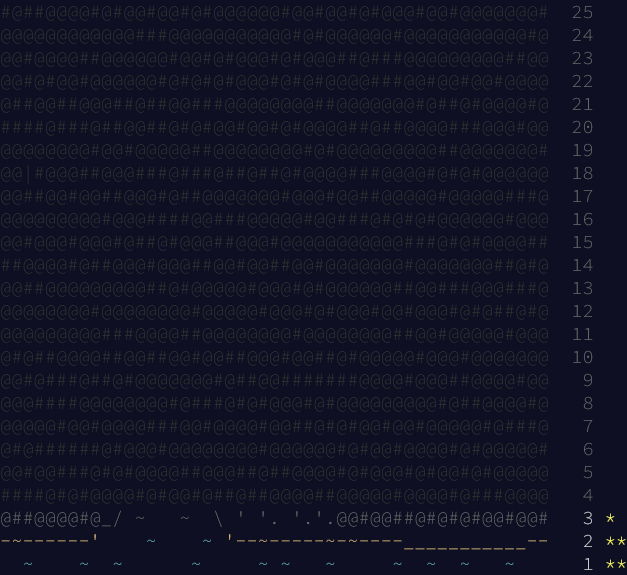
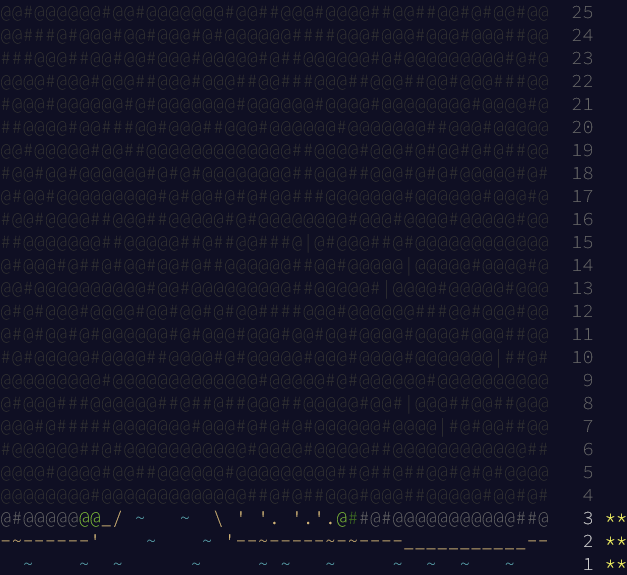
rust: solve 2022.03, part 2

diff --git a/2022/rust/src/aoc03.rs b/2022/rust/src/aoc03.rs
@@ -28,7 +28,36 @@ impl<'a, I: Clone + Iterator<Item = &'a str>> Day<'a, I> for Day03 {
     }
 
     fn part2(input: I) -> Option<i32> {
-        todo!()
+        let mut count = 0;
+        let mut intersection = HashSet::new();
+        let mut priorities = 0;
+
+        for line in input {
+            count += 1;
+            let unique_chars = HashSet::from_iter(line.chars());
+            if count == 1 {
+                intersection = unique_chars;
+            } else {
+                intersection.retain(|c| unique_chars.contains(c));
+                if count >= 3 {
+                    let mut iter = intersection.iter();
+                    let badge = *iter.next()?;
+                    if iter.next().is_some() {
+                        // should only have one item
+                        return None;
+                    }
+                    priorities += get_priority(badge)?;
+                    count = 0;
+                }
+            }
+        }
+
+        if count != 0 {
+            // elves not divisible into groups of three
+            return None;
+        }
+
+        Some(priorities)
     }
 }
 

diff --git a/2022/README.md b/2022/README.md
@@ -22,9 +22,9 @@
 @#@@@@#@@#@#@@@#@@#@@@@@@@@@##@@@##@@@@#@#@#@@@#@   6
 @@###@@@#@@#@@#@@@@@@###@#@#@###@@@@@@@#@@@@@@@@@   5
 @@#@##@@@@##@#@@@@#@#@@@@@@@@@@@|#@@@##@@@@#@@#@@   4
-@##@@@@#@_/ ~   ~  \ ' '. '.'.@@#@@##@#@#@#@@#@@#   3 *
+@#@@@@@@@_/ ~   ~  \ ' '. '.'.@##@#@@@@@@@@@@@##@   3 **
 -~------'    ~    ~ '--~-----~-~----___________--   2 **
   ~    ~  ~      ~     ~ ~   ~     ~  ~  ~   ~      1 **
 ```
 
-![Calendar after day 3, part 1](calendar.png)
+![Calendar after day 3](calendar.png)
